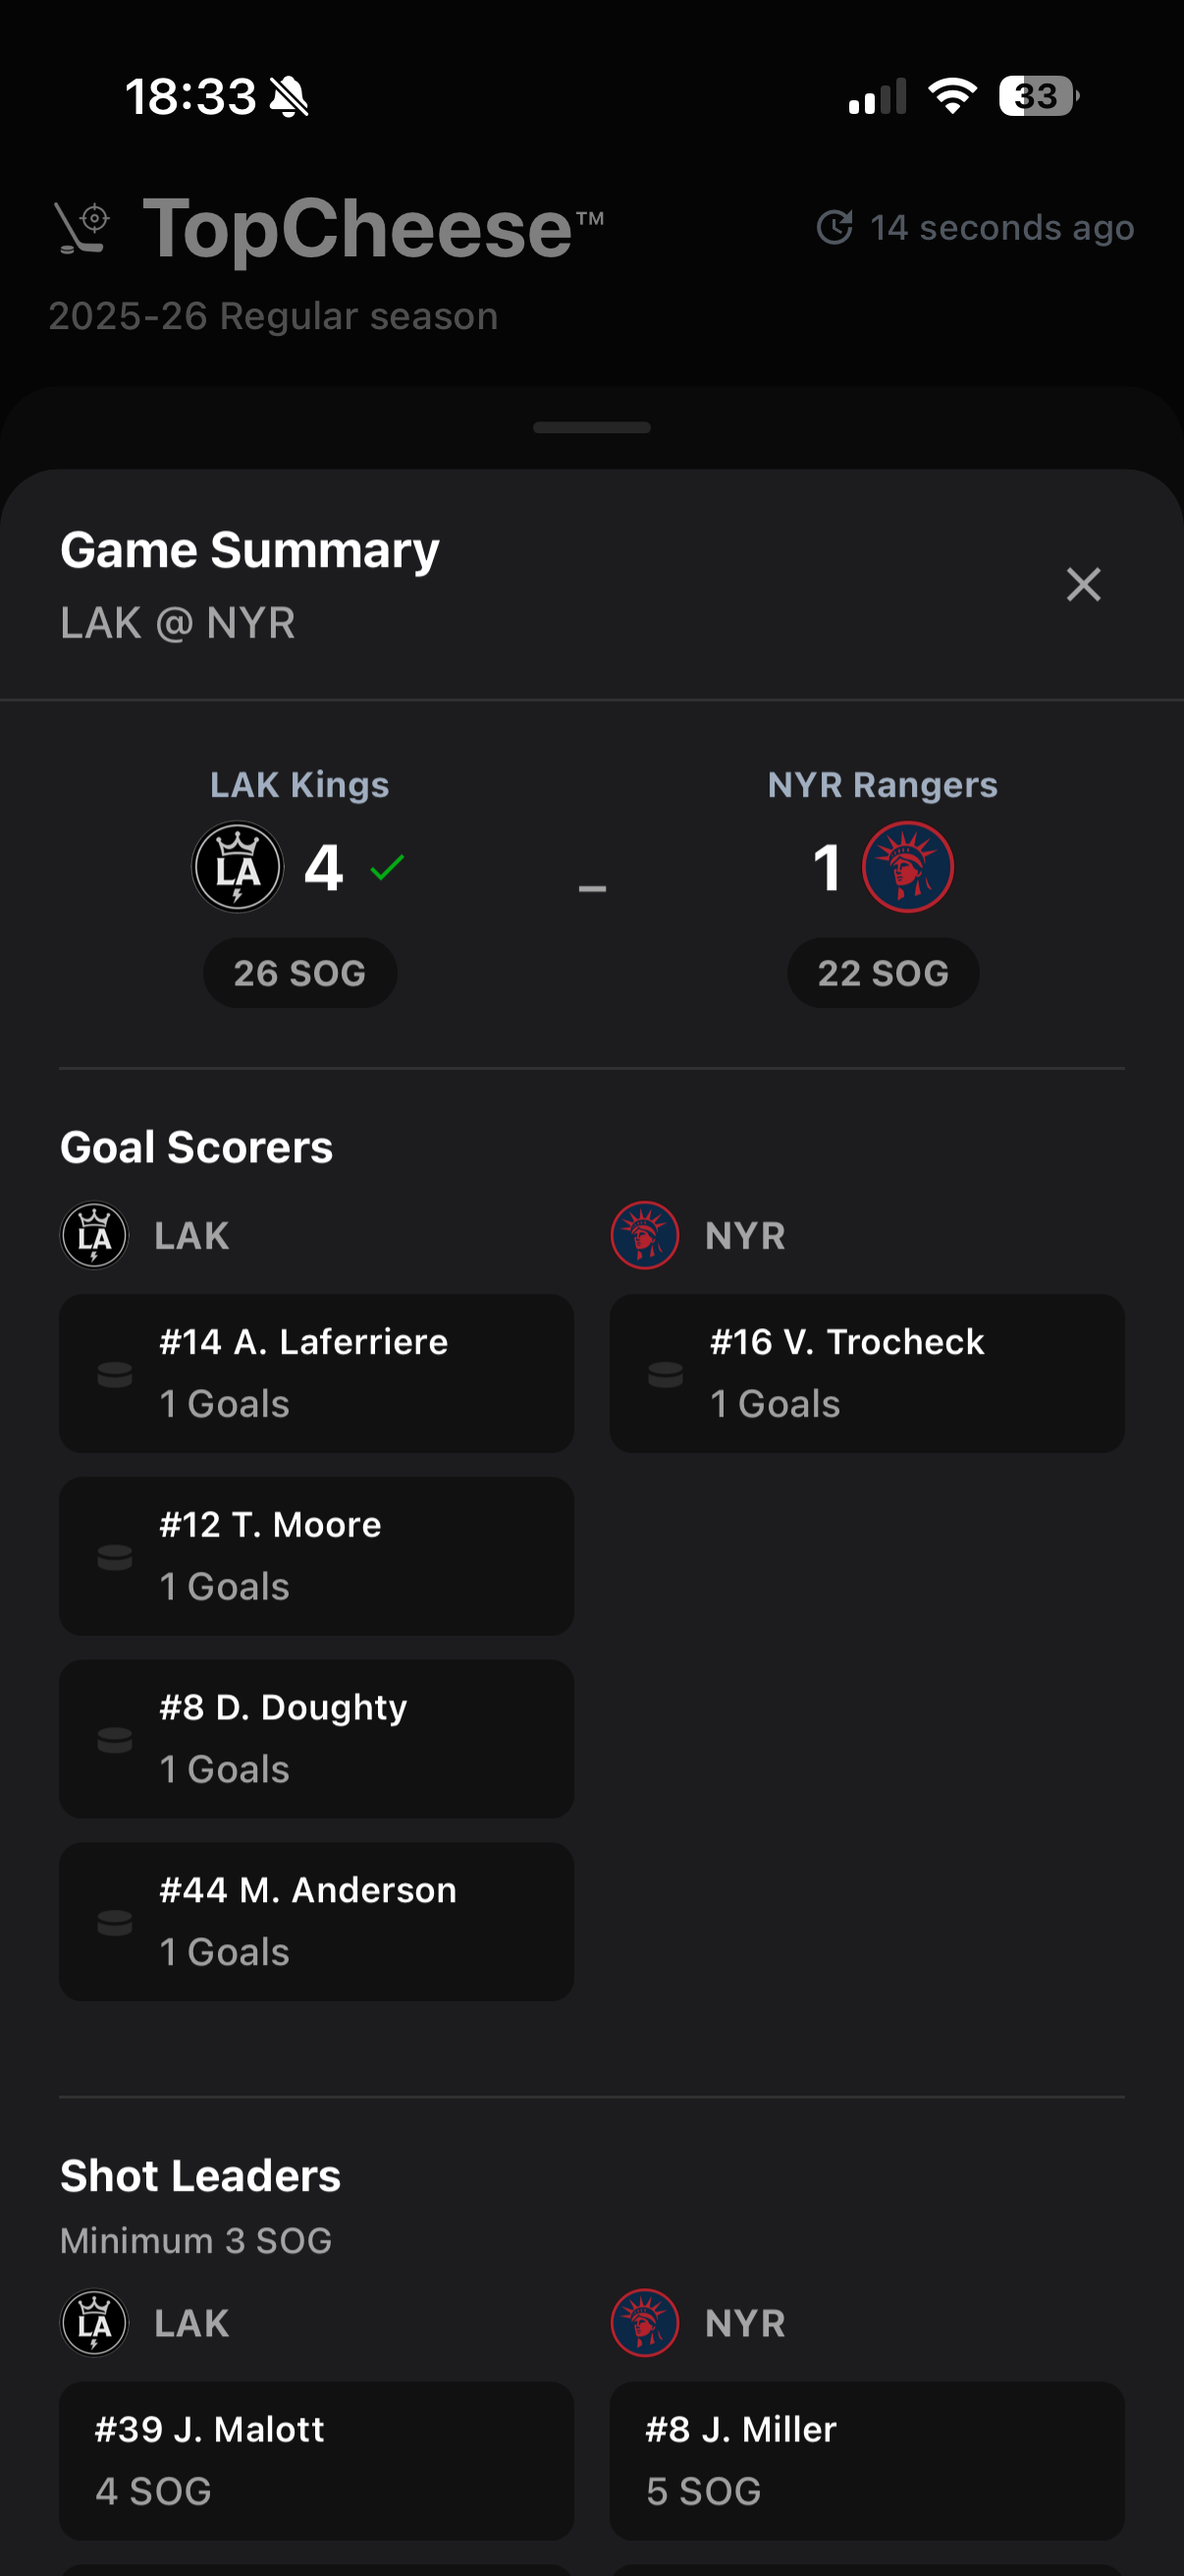
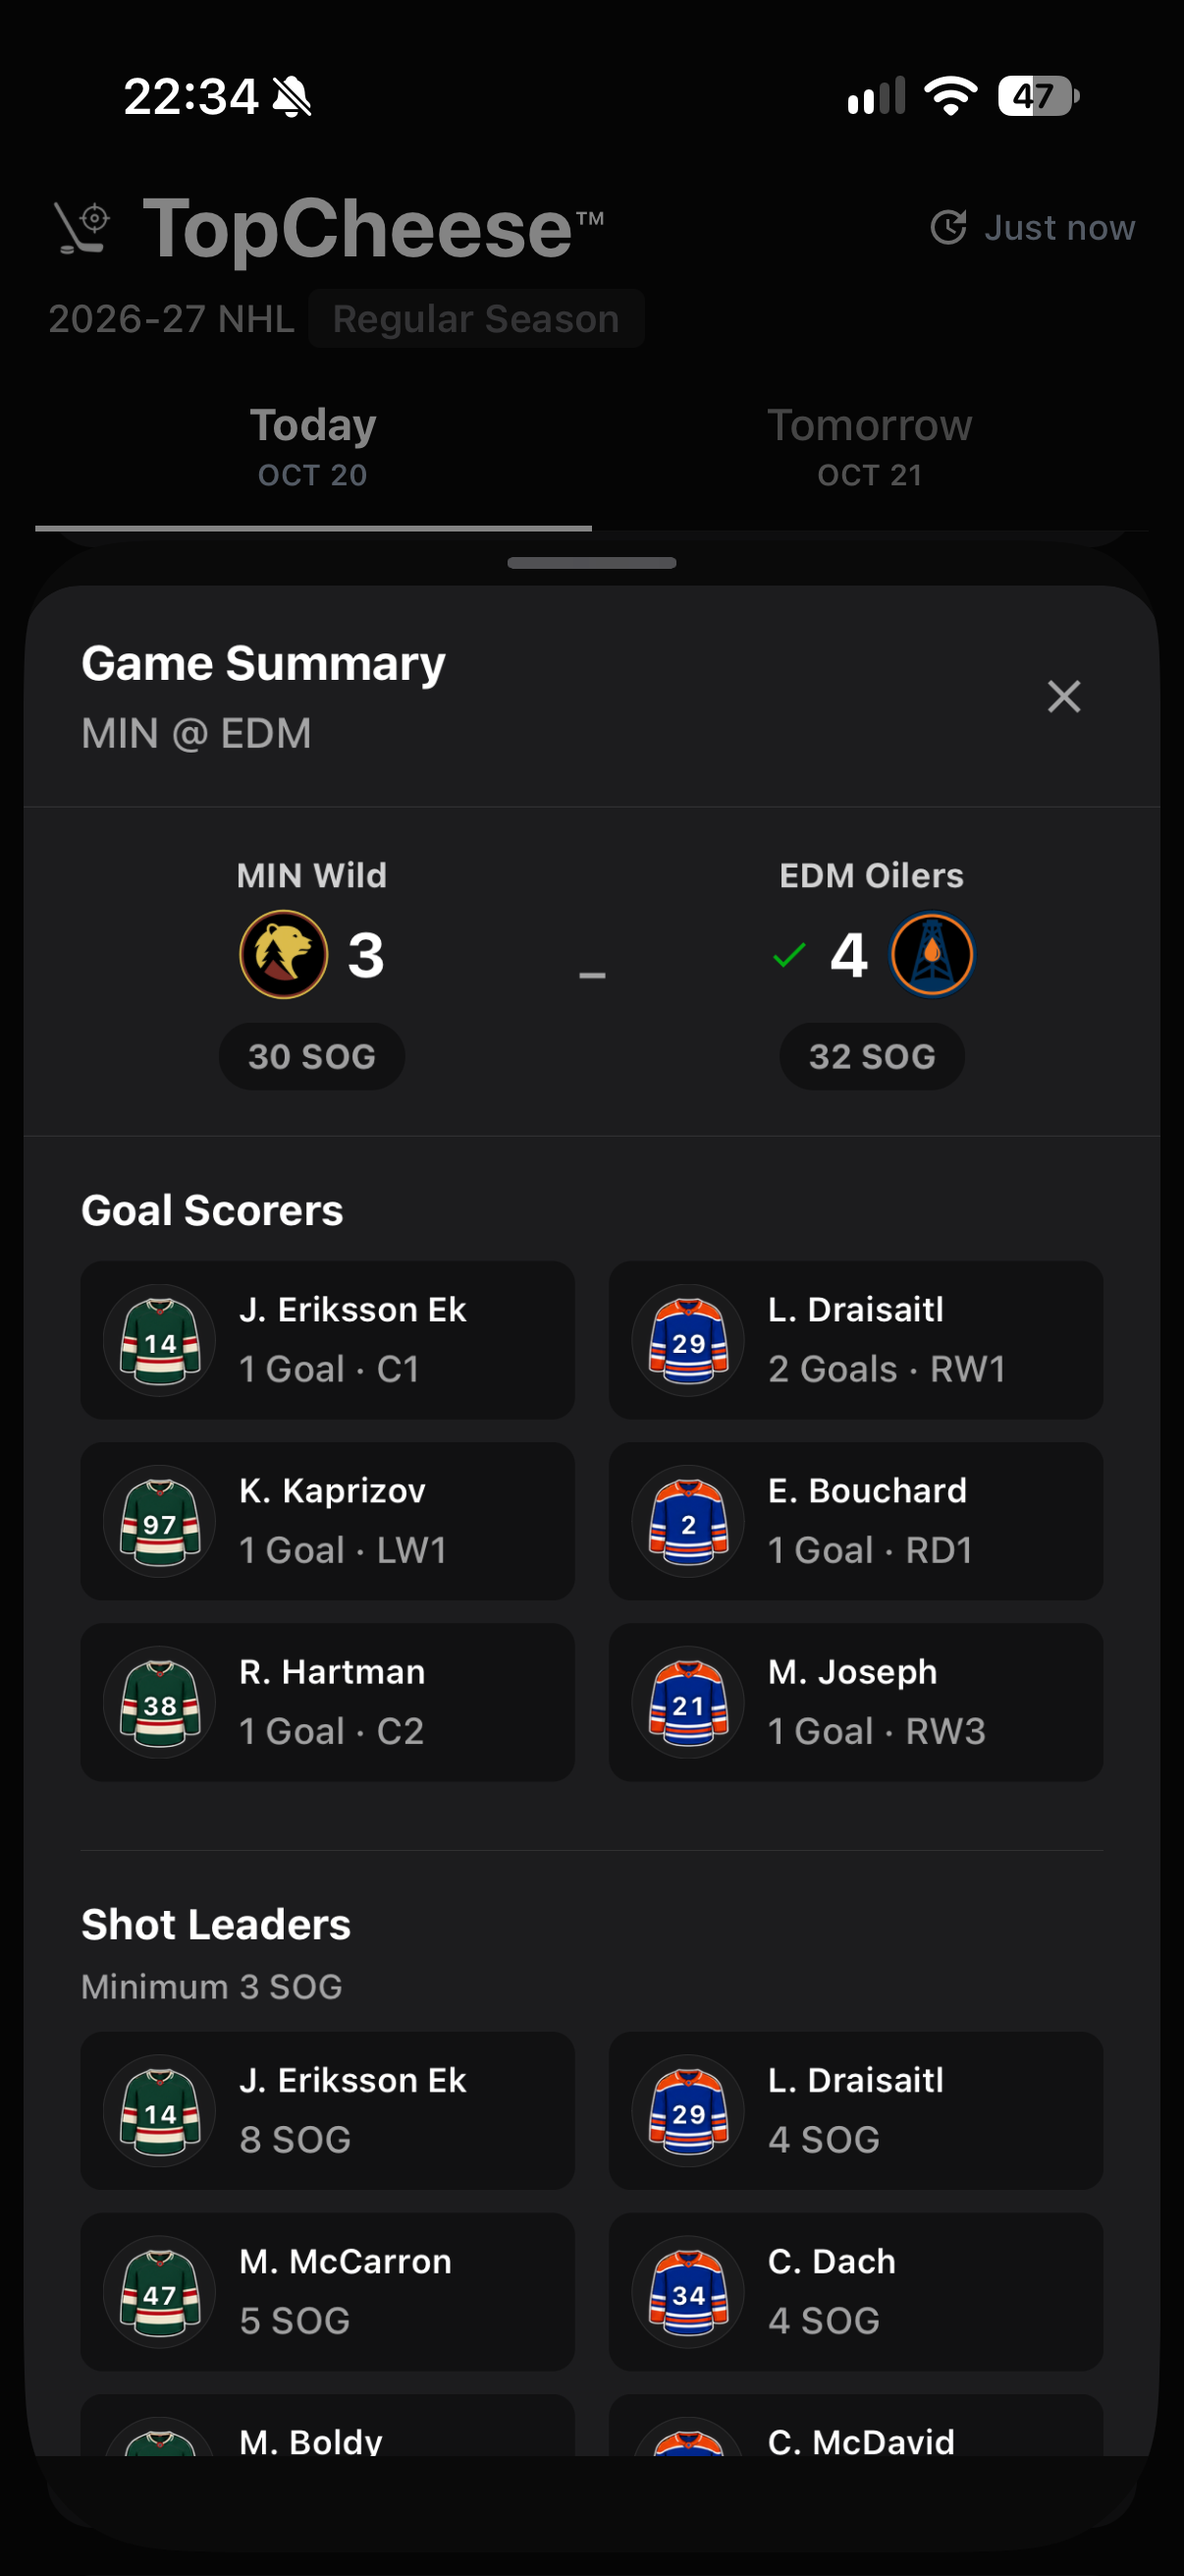
Screenshot and feature updates

diff --git a/index.html b/index.html
@@ -737,8 +737,8 @@
           </div>
           <h1>When the Puck Heats Up, You'll Know First</h1>
           <p>
-            Live shot tracking, player heat levels, and real-time momentum — all
-            in one app.
+            Live shot tracking, heat levels, lineup previews, player smash
+            spots, and more — all in one app.
           </p>
           <p class="hero-no-friction">
             <strong>No signup. No login. No subscription.</strong>
@@ -868,17 +868,15 @@
               stroke-linejoin="round"
             >
               <path stroke="none" d="M0 0h24v24H0z" fill="none" />
-              <path d="M6.73 17.018a8 8 0 1 1 10.54 0" />
-              <path
-                d="M5 19a2 2 0 0 0 2 2h10a2 2 0 1 0 0 -4h-10a2 2 0 0 0 -2 2"
-              />
-              <path d="M11 7a3 3 0 0 0 -3 3" />
+              <path d="M6 5h12l4 6-10 10L2 11z" />
+              <path d="M2 11h20" />
+              <path d="M12 21L8 11l2-6" />
+              <path d="M12 21l4-10-2-6" />
             </svg>
           </div>
-          <h3>Next Goal Prediction</h3>
+          <h3>Lineup Previews</h3>
           <p>
-            See which team is likely to score next, based on live shot pressure,
-            momentum, and more.
+            See each team's projected lineup and the players in the smash spot.
           </p>
         </div>
         <div class="feature-card">
@@ -894,12 +892,16 @@
               stroke-linecap="round"
               stroke-linejoin="round"
             >
-              <path stroke="none" d="M0 0h24v24H0z" fill="none" />
-              <path d="M3 12h1m8 -9v1m8 8h1m-15.4 -6.4l.7 .7m12.1 -.7l-.7 .7" />
+              <path d="M10 10h4" />
+              <path d="M19 7V4a1 1 0 0 0-1-1h-2a1 1 0 0 0-1 1v3" />
               <path
-                d="M9 16a5 5 0 1 1 6 0a3.5 3.5 0 0 0 -1 3a2 2 0 0 1 -4 0a3.5 3.5 0 0 0 -1 -3"
+                d="M20 21a2 2 0 0 0 2-2v-3.851c0-1.39-2-2.962-2-4.829V8a1 1 0 0 0-1-1h-4a1 1 0 0 0-1 1v11a2 2 0 0 0 2 2z"
               />
-              <path d="M9.7 17l4.6 0" />
+              <path d="M22 16H2" />
+              <path
+                d="M4 21a2 2 0 0 1-2-2v-3.851c0-1.39 2-2.962 2-4.829V8a1 1 0 0 1 1-1h4a1 1 0 0 1 1 1v11a2 2 0 0 1-2 2z"
+              />
+              <path d="M9 7V4a1 1 0 0 0-1-1H6a1 1 0 0 0-1 1v3" />
             </svg>
           </div>
           <h3>Game Preview and Summary</h3>
@@ -962,7 +964,7 @@
       <div class="footer-content">
         <p class="footer-note">TopCheese</p>
         <p class="footer-tagline">When the puck heats up, you'll know first.</p>
-        <p class="copyright">© 2025 TopCheese. All rights reserved.</p>
+        <p class="copyright">© 2026 TopCheese. All rights reserved.</p>
         <p class="apple-trademark">
           Apple and the Apple logo are trademarks of Apple Inc.
         </p>
@@ -971,30 +973,33 @@
     <script>
       const items = [
         {
-          text: "Shot Leaders",
-          image: "assets/topcheese-most-sog.PNG",
+          text: "Lineup Preview",
+          image: "assets/topcheese-lineup-preview-tbl.PNG",
         },
         {
-          text: "Live Games",
-          image: "assets/topcheese-live-games.PNG",
+          text: "Final Games",
+          image: "assets/topcheese-games-final.PNG",
         },
         {
           text: "Recent Performance",
-          image: "assets/topcheese-player-performance-modal.PNG",
-        },
-        {
-          text: "Lineup Builder",
-          image: "assets/topcheese-lineup-builder.PNG",
+          image: "assets/topcheese-player-stats.PNG",
         },
         {
           text: "Game Preview",
-          image: "assets/topcheese-game-preview.PNG",
+          image: "assets/topcheese-game-preview-hot-sticks.PNG",
         },
-        { text: "Player Stats", image: "assets/topcheese-sslg-live-game.PNG" },
         {
-          text: "Next Goal Prediction",
-          image: "assets/topcheese-next-goal-prediction.PNG",
+          text: "Live Game Player Stats",
+          image: "assets/topcheese-live-game-player-stats.PNG",
         },
+        {
+          text: "Game Summary",
+          image: "assets/topcheese-game-summary.PNG",
+        },
+        // {
+        //   text: "Shot Leaders",
+        //   image: "assets/topcheese-most-sog.PNG",
+        // },
       ];
       const CAROUSEL_INTERVAL_MS = 5000;
       const track = document.getElementById("carouselTrack");
